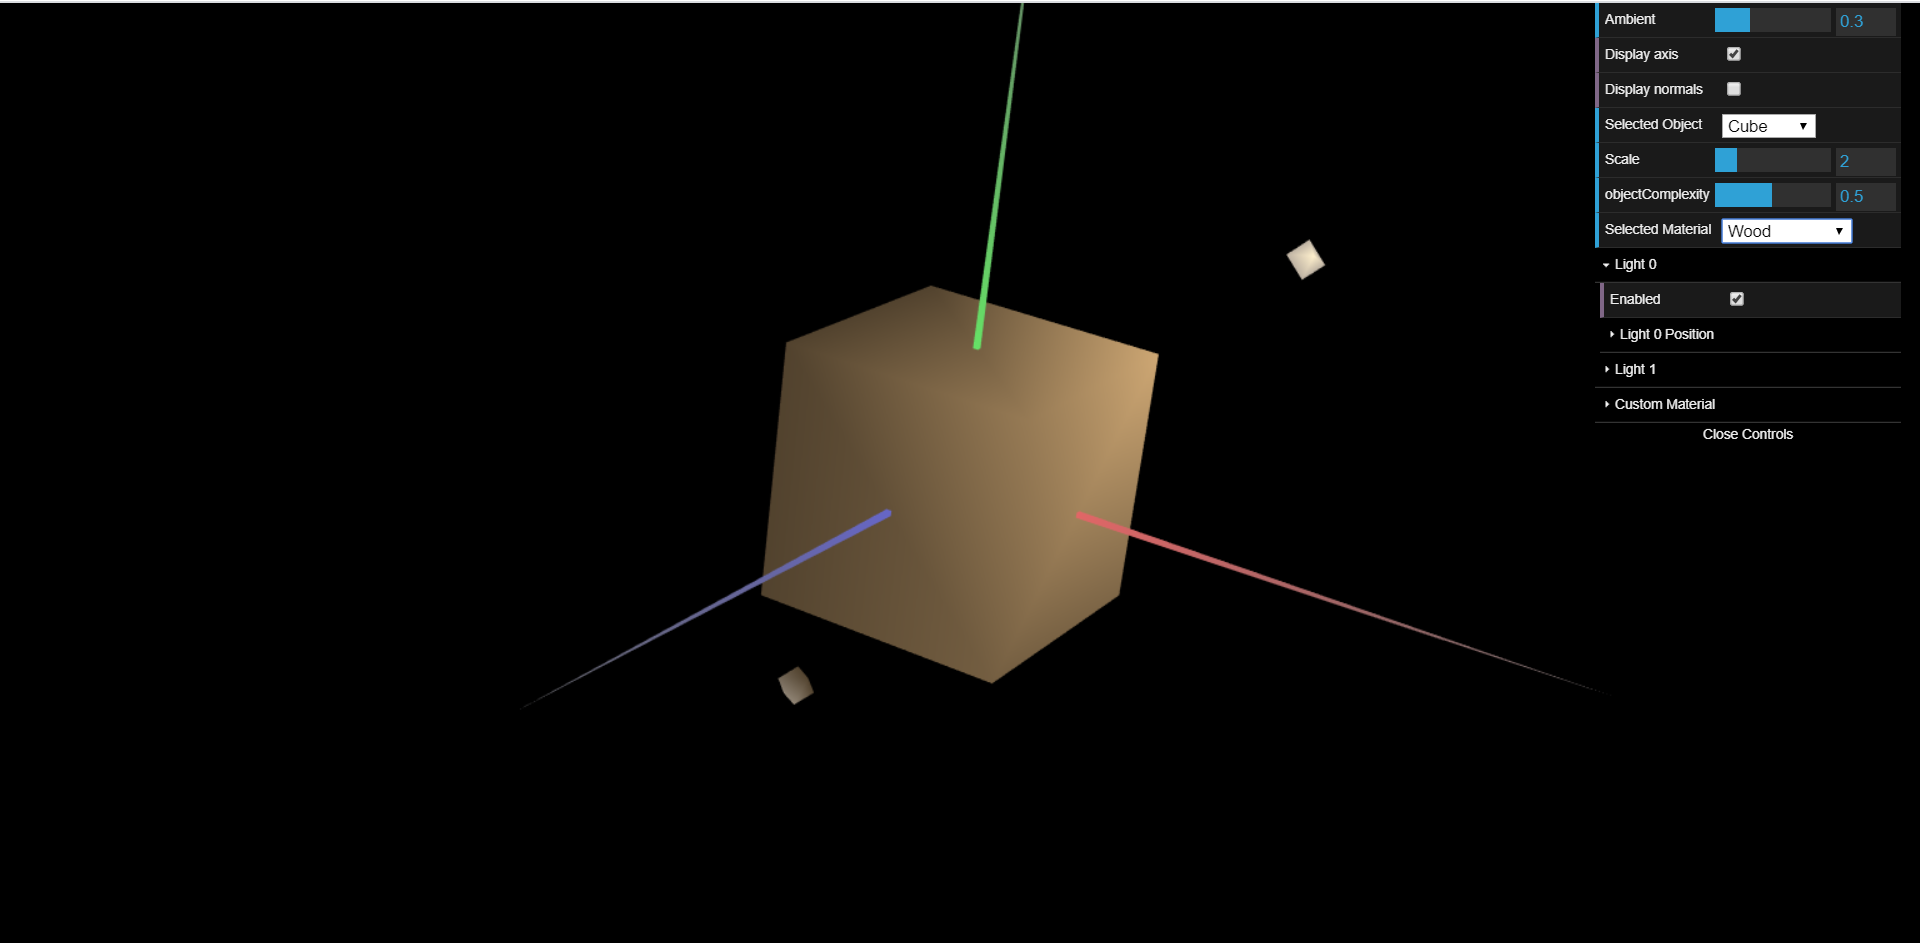
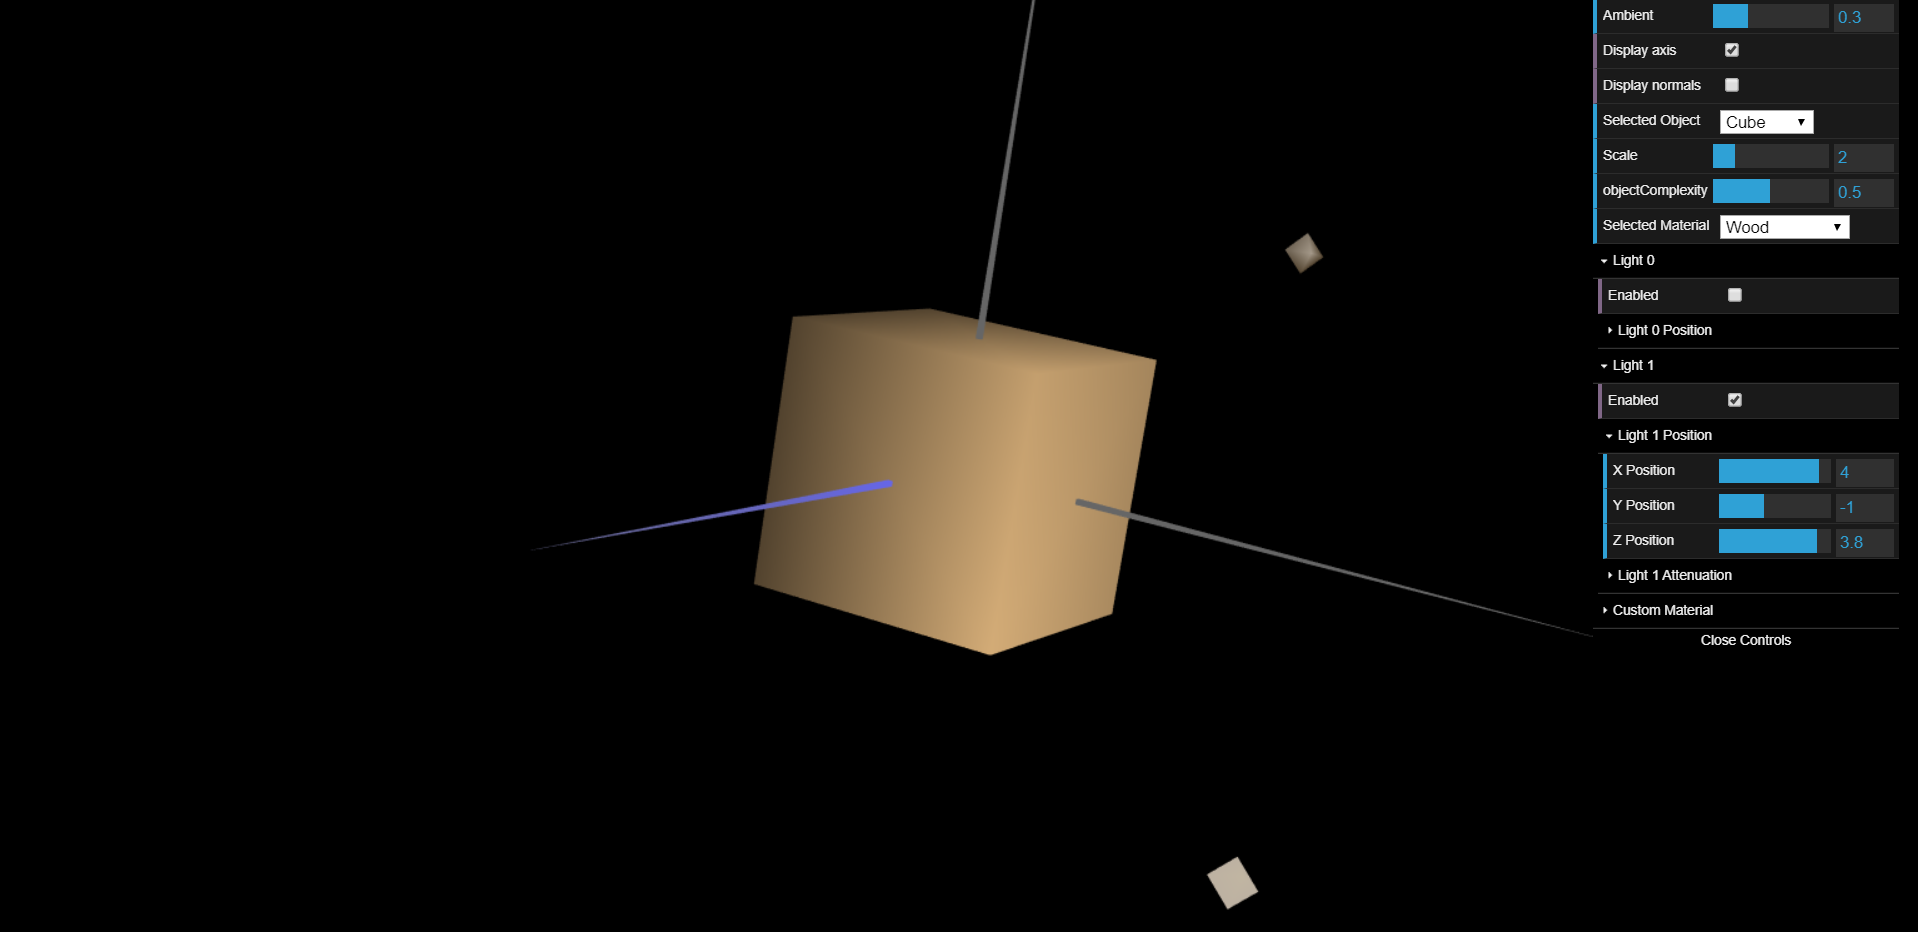
Fixed cube lighting issue

diff --git a/TP/tp3/MyScene.js b/TP/tp3/MyScene.js
@@ -129,7 +129,7 @@ class MyScene extends CGFscene {
         this.material4 = new CGFappearance(this);
         this.material4.setAmbient(0.8, 0.65, 0.45, 1.0);
         this.material4.setDiffuse(0.8, 0.65, 0.45, 1.0);
-        this.material4.setSpecular(0.8, 0.65, 0.45, 0.3);
+        this.material4.setSpecular(0.05, 0.05, 0.05, 1.0);
         this.material4.setShininess(10.0);
 
         // Custom material (can be changed in the interface)
